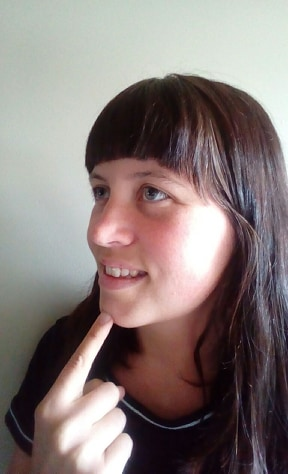
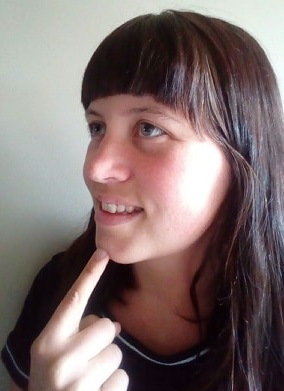
knie en vinger toegevoegd

diff --git a/images/images.html b/images/images.html
@@ -933,6 +933,10 @@
 <a href="lichaam/knie.png"> knie </a>
 </li> 
 
+<li>
+<a href="lichaam/vinger.png"> vinger </a>
+</li> 
+
 
 
 
